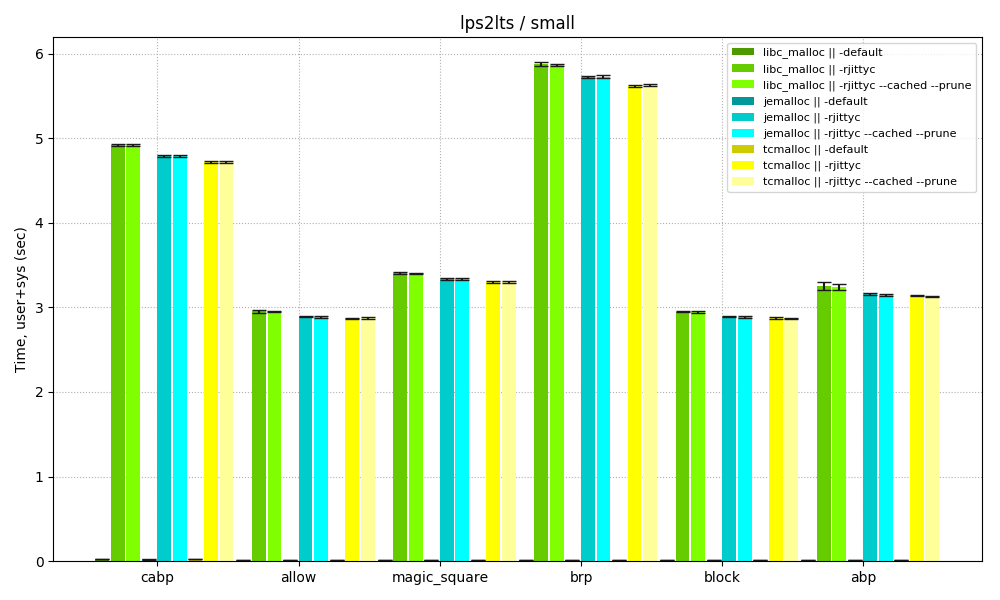
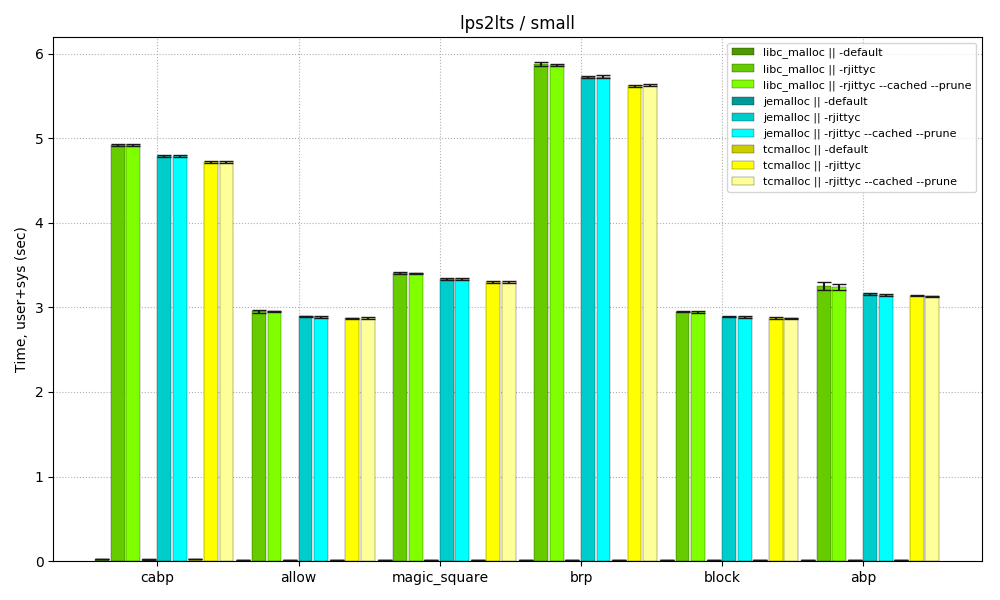
update allocator plots - add border to bars

Changed region(s): [[0.124, 0.09, 0.93, 0.93], [0.713, 0.18, 0.775, 0.3], [0.713, 0.09, 0.775, 0.15]]

diff --git a/benchmarks/lps2lts_allocators/plot.py b/benchmarks/lps2lts_allocators/plot.py
@@ -93,7 +93,9 @@ for allocator in allocators:
         means = [ data[allocator][test][flag]['usr+sys'][T_MEAN] / 1000 for test in tests ]
         sds   = [ data[allocator][test][flag]['usr+sys'][T_SD]   / 1000 for test in tests ]
         ax.bar(y_pos + offset, means, width= w - (w / barspertest), align='edge', \
-            color=colors[allocator][flag], label="%s || %s" % ( "libc_malloc" if allocator == "default" else allocator, flag), yerr=sds, error_kw=error_config,  ecolor='gray')
+            color=colors[allocator][flag], label="%s || %s" % \
+            ( "libc_malloc" if allocator == "default" else allocator, flag), yerr=sds, \
+            error_kw=error_config, linewidth=0.2, edgecolor="black")
 
         offset = offset + w
 
